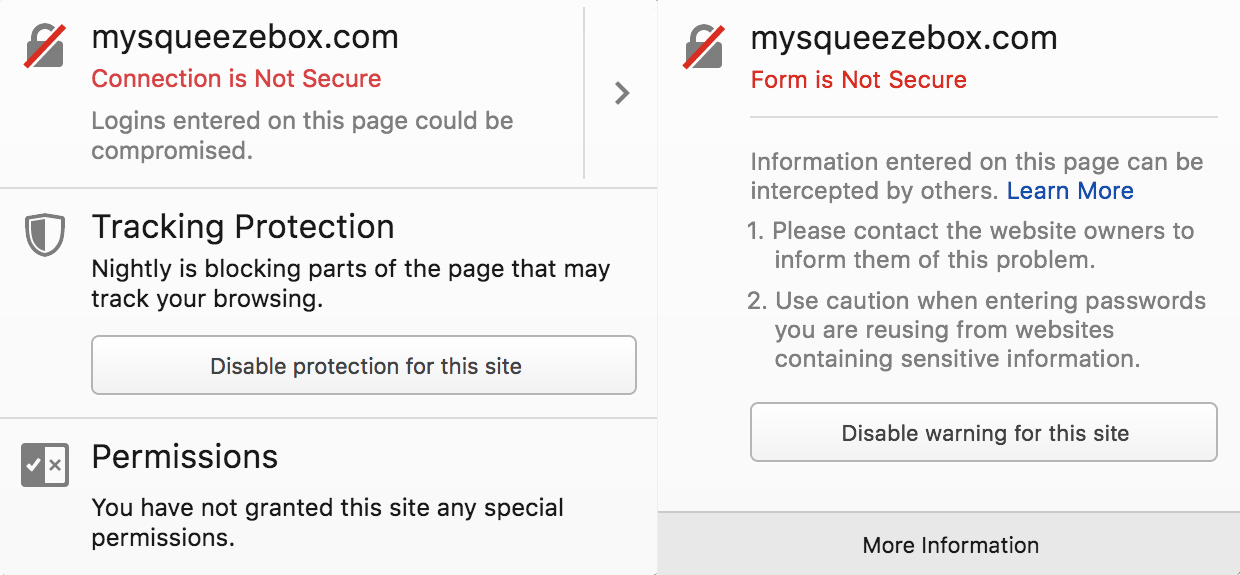
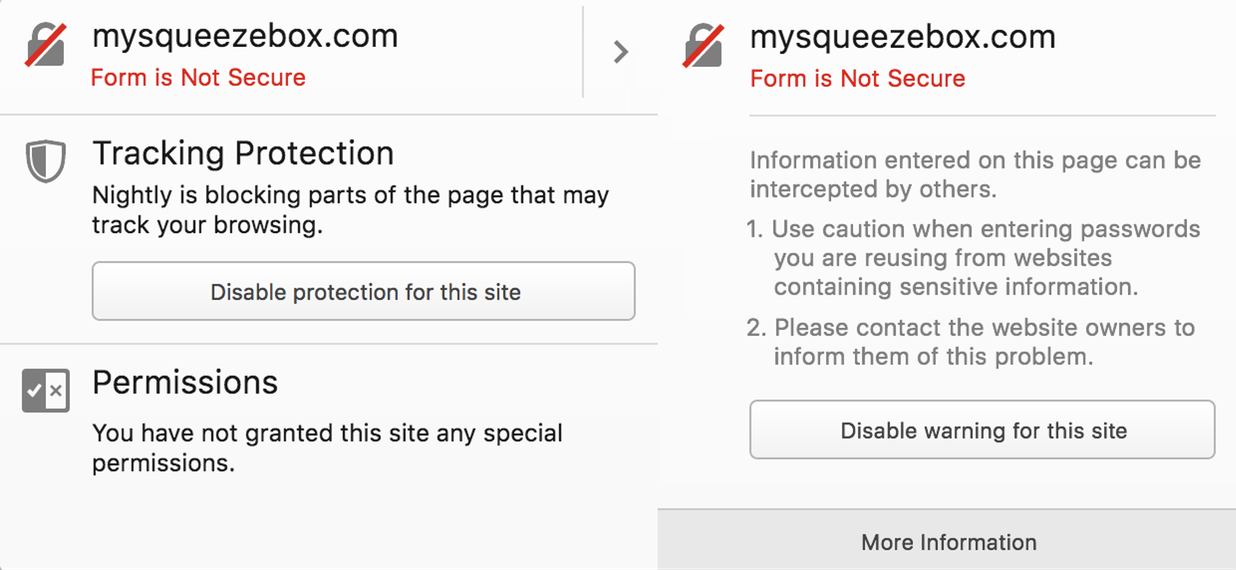
click on input dropdown to open info

diff --git a/password-dropdown/index.html b/password-dropdown/index.html
@@ -58,33 +58,40 @@
 	</form>
 
 
-	<a id="trial-a" target="_blank" href="https://support.mozilla.org/t5/Protect-your-privacy/Insecure-password-warning-in-Firefox/ta-p/27861" class="warning" style="display: none">
+	<a target="_blank" href="https://support.mozilla.org/t5/Protect-your-privacy/Insecure-password-warning-in-Firefox/ta-p/27861" class="warning trial-a" style="display: none">
 		Firefox has detected an insecure site.
 		Your password may not be safe.
 		<b>Learn more</b>
 	</a>
 
-	<a id="trial-b" target="_blank" href="https://support.mozilla.org/t5/Protect-your-privacy/Insecure-password-warning-in-Firefox/ta-p/27861" class="warning" style="display: none">
+	<a target="_blank" href="https://support.mozilla.org/t5/Protect-your-privacy/Insecure-password-warning-in-Firefox/ta-p/27861" class="warning trial-b" style="display: none">
 		Firefox has detected an insecure form.
 		Details can be intercepted.
 		<b>Learn more</b>
 	</a>
+
+	<div class="warning trial-c" style="display: none">
+		Insecure form detected by Firefox.
+		<div class='info-icon'> </div>
+	</div>
 
 </body>
 <script>
 	let lock = document.getElementById('lock');
 	let click_shift = document.getElementById('click-shift');
 	let popup_warning = document.getElementById('popup-warning');
+	let dropshadow = document.getElementById('dropshadow');
 
 	let version_params = new URLSearchParams(document.location.search);
   // ?v=trial-b or ?v=trial-a
 	let warning_id = version_params.get('v');
 	if (!warning_id) warning_id = 'trial-a';
-	let selected_warning = document.getElementById(warning_id);
+	let selected_warning = document.querySelector('.' + warning_id);
 	let quiet = false;
 
 	document.querySelector('body').onclick = (e) => {
 		if (!lock.firstElementChild.classList.contains('hidden')) {
+			popup_warning.classList.remove('shift-left');
 			lock.firstElementChild.classList.add('hidden');
 		}
 	}
@@ -94,6 +101,7 @@
 		if (lock.firstElementChild.classList.contains('hidden')){
 			lock.firstElementChild.classList.remove('hidden');
 		} else {
+			popup_warning.classList.remove('shift-left');
 			lock.firstElementChild.classList.add('hidden');
 		}
 	}
@@ -108,6 +116,12 @@
 			popup_warning.classList.remove('shift-left');
 		} else {
 			popup_warning.classList.add('shift-left');
+		}
+	}
+
+	dropshadow.onclick = () => {
+		if (popup_warning.classList.contains('shift-left')){
+			popup_warning.classList.remove('shift-left');
 		}
 	}
 
@@ -132,11 +146,19 @@
 		let warning_copy = selected_warning.cloneNode(true);
 		warning_copy.style.display = 'inherit';
 
-		// this event must fire before the 'blur' event, which is why the <a> hrefs are not working
-		warning_copy.addEventListener('mousedown', function(event) {
-			//window.open(event.target.href, '_blank');
-			quiet = true;
+		warning_copy.onclick = (e) => {
+			e.stopPropagation();
+			if (warning_copy.classList.contains('trial-c')) {
+				lock.firstElementChild.classList.remove('hidden');
+				setTimeout(function() {
+					popup_warning.classList.add('shift-left');
+				}, 100);
+			}
+		}
 
+		// this event must fire before the 'blur' event, which is why the <a> hrefs are not working
+		warning_copy.addEventListener('mousedown', function() {
+			quiet = true;
 			// do a longer wait to hide to ensure the href click was processed
 			setTimeout(function() {
 				dropdown.style.visibility = 'hidden';

diff --git a/password-dropdown/styles.css b/password-dropdown/styles.css
@@ -138,7 +138,7 @@ input { width: 232px; margin-top: 1em; }
 	position: absolute;
 	-moz-appearance: none;
 	background-image: url('./insecure-warning-full.png');
-	background-size: 620px 284px;
+	background-size: 619px 284px;
 	background-repeat: no-repeat;
 	border-radius: 3.5px;
 	box-shadow: 0 0 0 1px hsla(210,4%,10%,.2);
@@ -155,12 +155,12 @@ input { width: 232px; margin-top: 1em; }
 
 #dropshadow
 {
-	width: 37px;
+	width: 41px;
 	height: 284px;
 	right: 0;
 	position: absolute;
 	background-repeat: no-repeat;
-	background-size: 37px 284px;
+	background-size: 41px 284px;
 	opacity: 0;
 	background-image: url('./dropshadow.png');
 	transition: right .3s var(--animation-curve), opacity .3s var(--animation-curve);
@@ -170,8 +170,8 @@ input { width: 232px; margin-top: 1em; }
 {
 	position: absolute;
 	right: 0;
-	height: 94px;
-	width: 39px;
+	height: 57px;
+	width: 40px;
 }
 
 #click-shift:hover
@@ -181,14 +181,27 @@ input { width: 232px; margin-top: 1em; }
 
 #popup-warning.shift-left
 {
-	background-position-x: -291px;
+	background-position-x: -289px;
 }
 
 #popup-warning.shift-left #dropshadow,
 #popup-warning.shift-left #click-shift
 {
-	right: 293px;
+	right: 289px;
 	opacity: 1;
+	border-top-left-radius: 3.5px;
+	border-bottom-left-radius: 3.5px;
 }
 
-/*border-top: 1px solid var(--panel-separator-color)*/
+.info-icon {
+	height: 12px;
+	width: 12px;
+	margin: 2px 0px -2px 3px;
+	background-image: url('./identity-icon.png');
+	background-size: 12px;
+	display: inline-block;
+}
+
+.warning:hover .info-icon {
+	background-image: url('./identity-icon-dark.png');
+}
